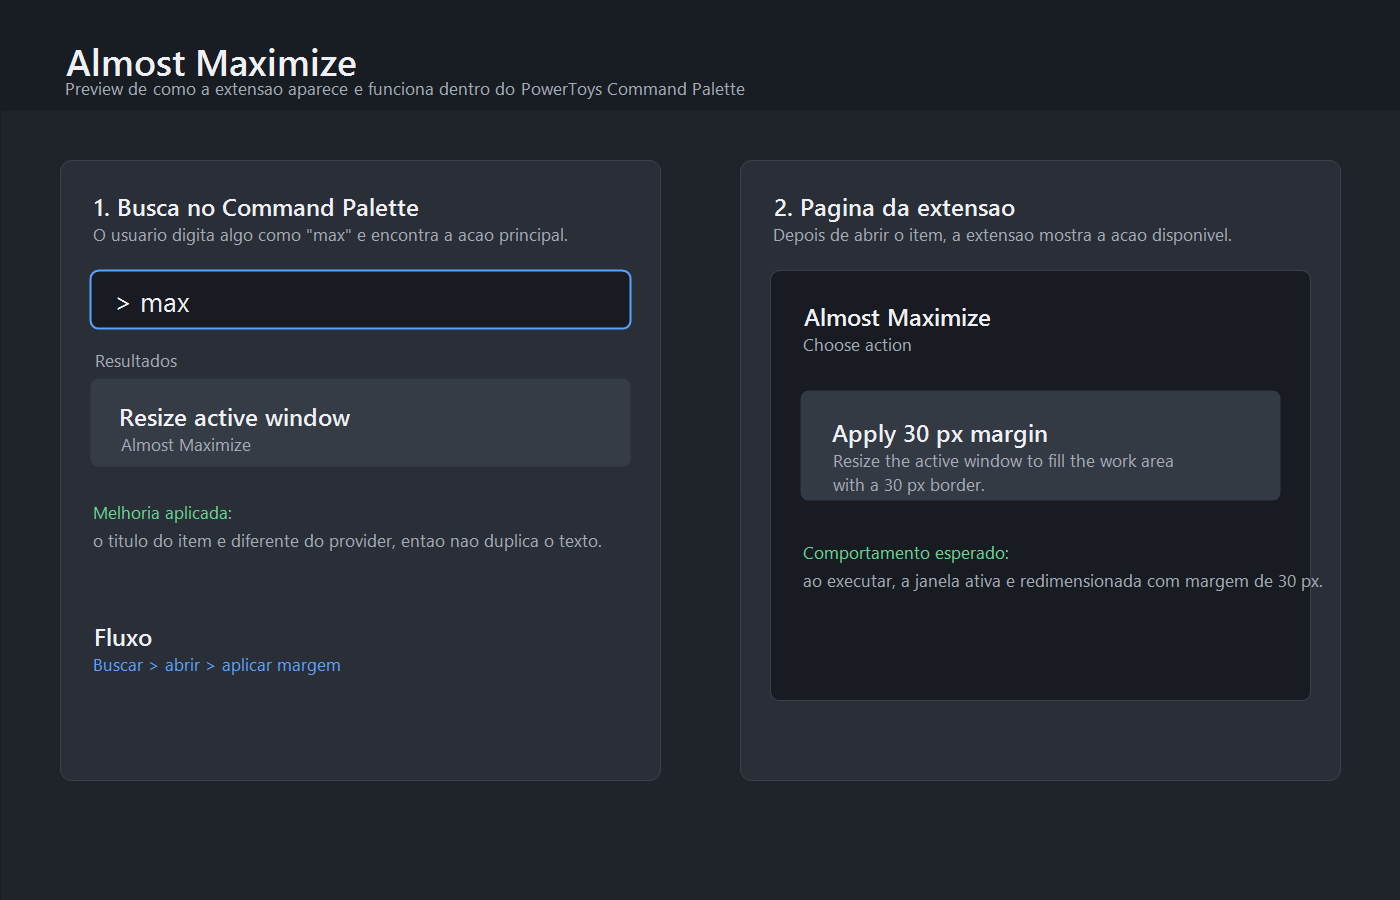
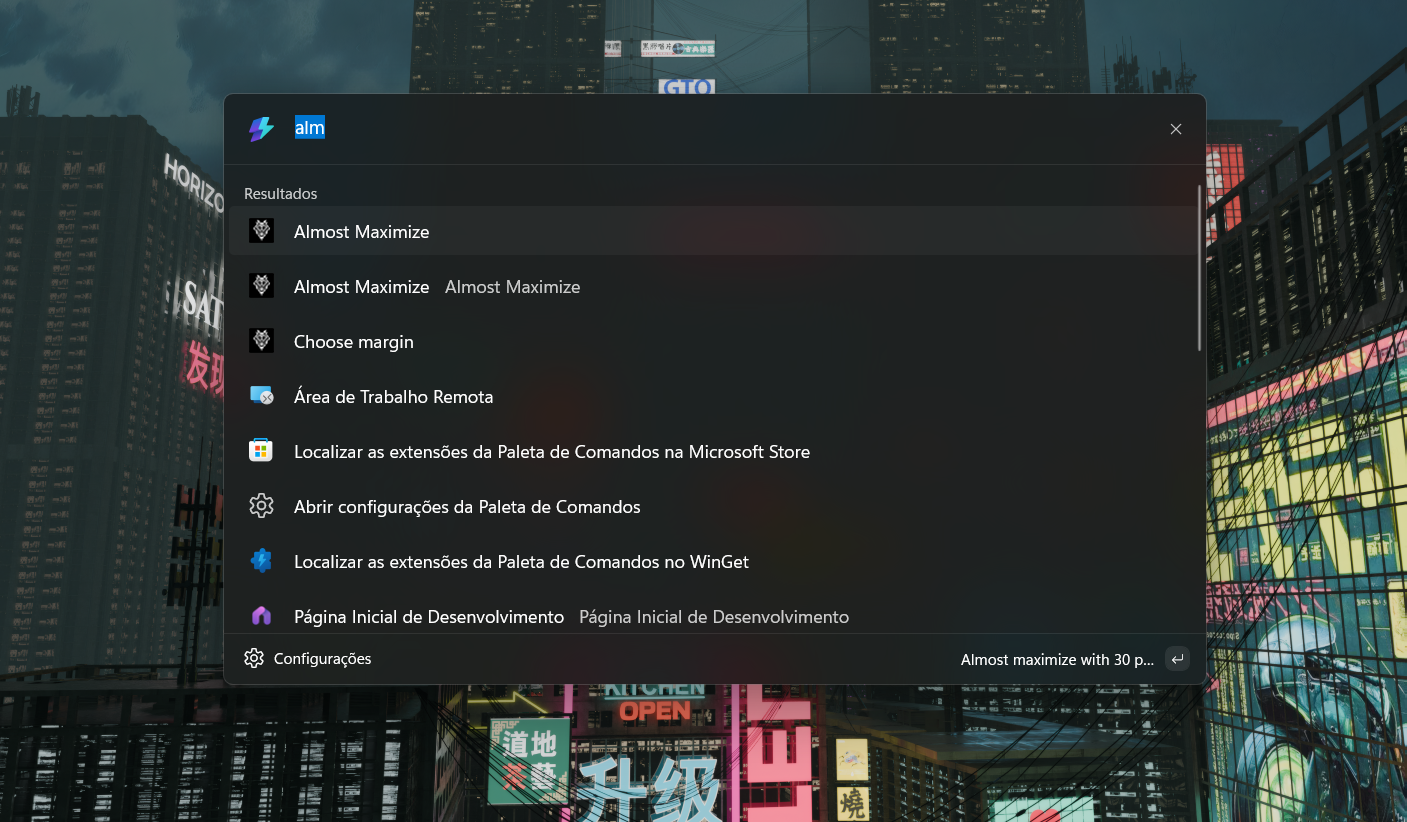
Atualiza documentação com informações sobre ambientes suportados e requisitos do Windows 11;

diff --git a/README.md b/README.md
@@ -59,6 +59,13 @@ Top-level actions:
 - [Local setup](docs/LOCAL_SETUP.md)
 - [Architecture](docs/ARCHITECTURE.md)
 
+## Supported Environment
+
+- Windows 11
+- PowerToys with Command Palette enabled
+
+The window resizing logic itself uses standard Win32 APIs, but this project is built and documented as a PowerToys Command Palette extension for Windows 11.
+
 ## Requirements
 
 - Windows 11

diff --git a/docs/LOCAL_SETUP.md b/docs/LOCAL_SETUP.md
@@ -4,11 +4,13 @@ This project is meant to run locally as a PowerToys Command Palette extension.
 
 ## Requirements
 
-- Windows
+- Windows 11
 - PowerToys installed
 - Command Palette enabled in PowerToys
 - .NET SDK
 - Developer Mode enabled in Windows
+
+This repository is documented and supported as a Windows 11 PowerToys Command Palette extension.
 
 ## Build
 